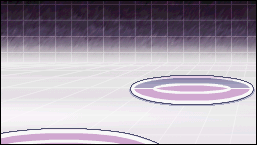
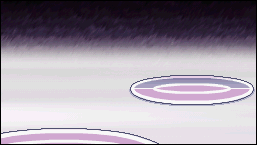
reverted bgs

Changed region(s): [[0.0, 0.0, 0.9961, 0.3862]]

diff --git a/bin/db/credits.html b/bin/db/credits.html
@@ -49,4 +49,5 @@ carrying out the original Netbattle project. </p>
 <li>Kioku, Jules, Professor Oak for their contribution</li>
 <li>Sesshy, for endless inspiration</li>
 <li>Serebii, Veekun, for providing a lot of data on their website</li>
+<li>Phred, for the battle backgrounds</li>
 </ul>

diff --git a/src/Teambuilder/basebattlewindow.cpp b/src/Teambuilder/basebattlewindow.cpp
@@ -1172,7 +1172,7 @@ BaseGraphicsZone::BaseGraphicsZone(BaseBattleInfo *i) : mInfo(i)
     items.resize(info().numberOfSlots);
 
     scene.setSceneRect(0,0,257,145);
-    scene.addItem(new QGraphicsPixmapItem(QPixmap(QString("db/battle_fields/%1.png").arg((rand()%15)+1))));
+    scene.addItem(new QGraphicsPixmapItem(QPixmap(QString("db/battle_fields/%1.png").arg((rand()%11)+1))));
 
     for (int i = 0; i < info().numberOfSlots; i++) {
         items[i] = new QGraphicsPixmapItem();
